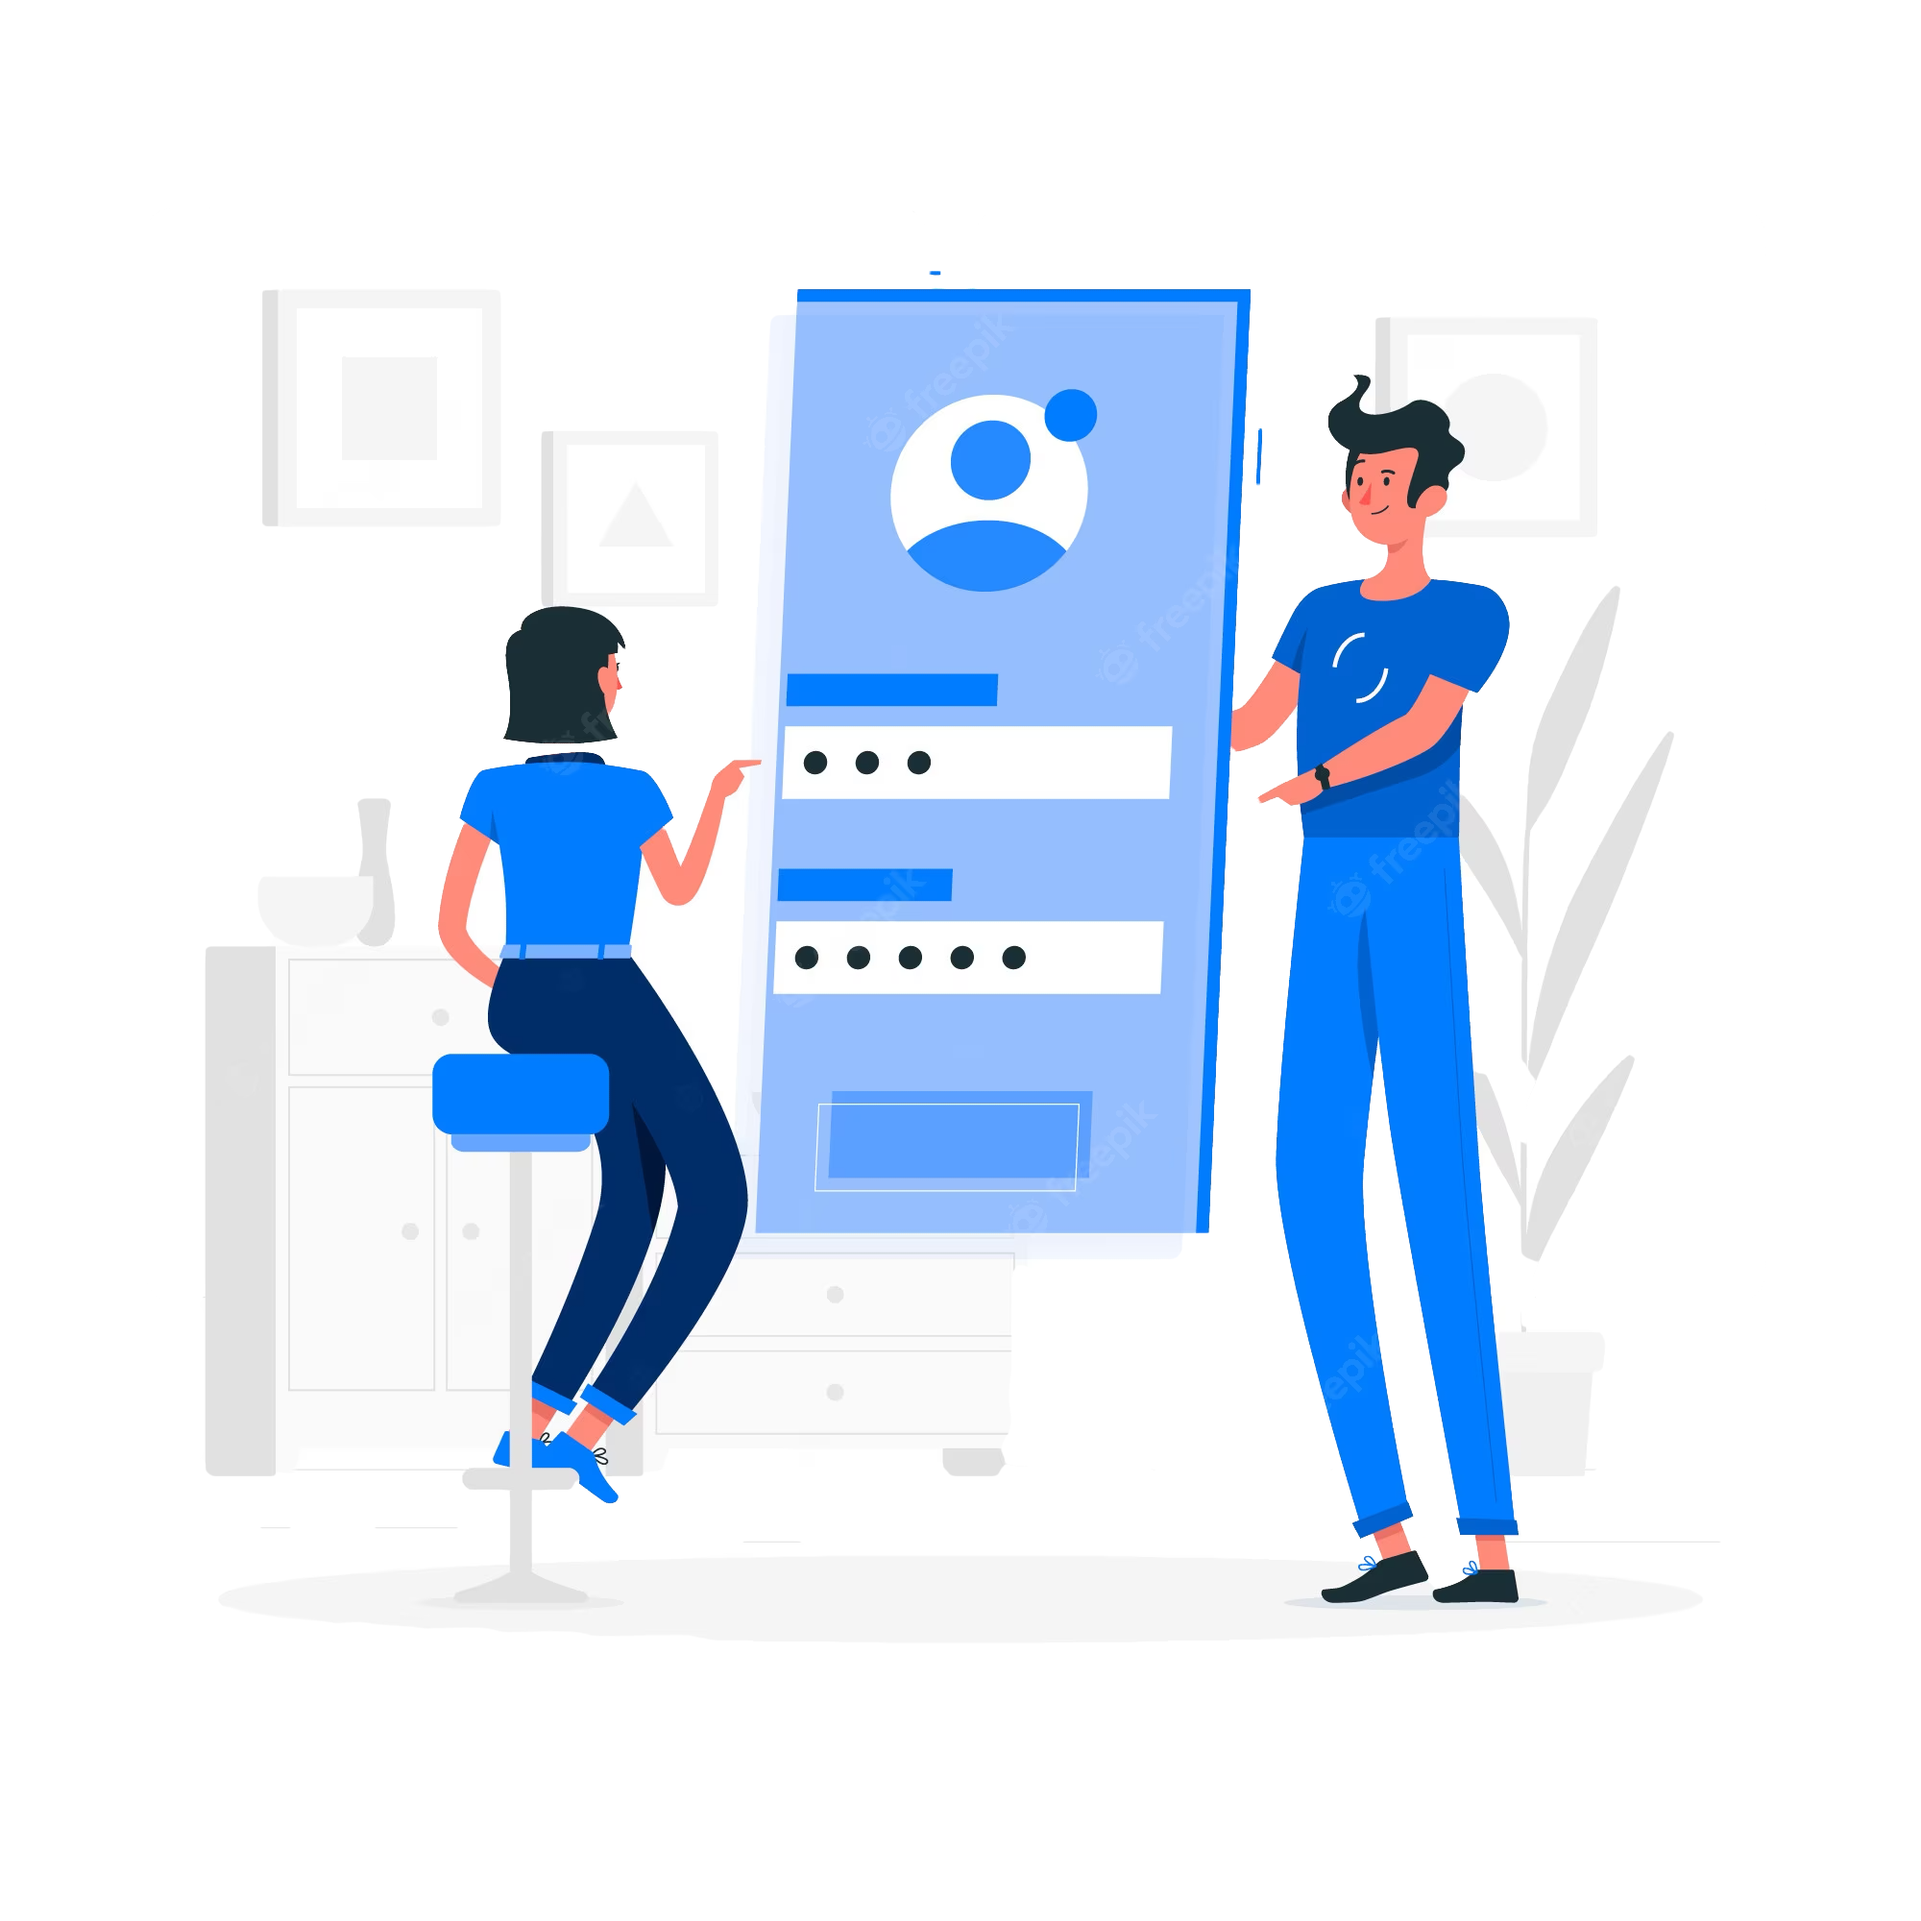
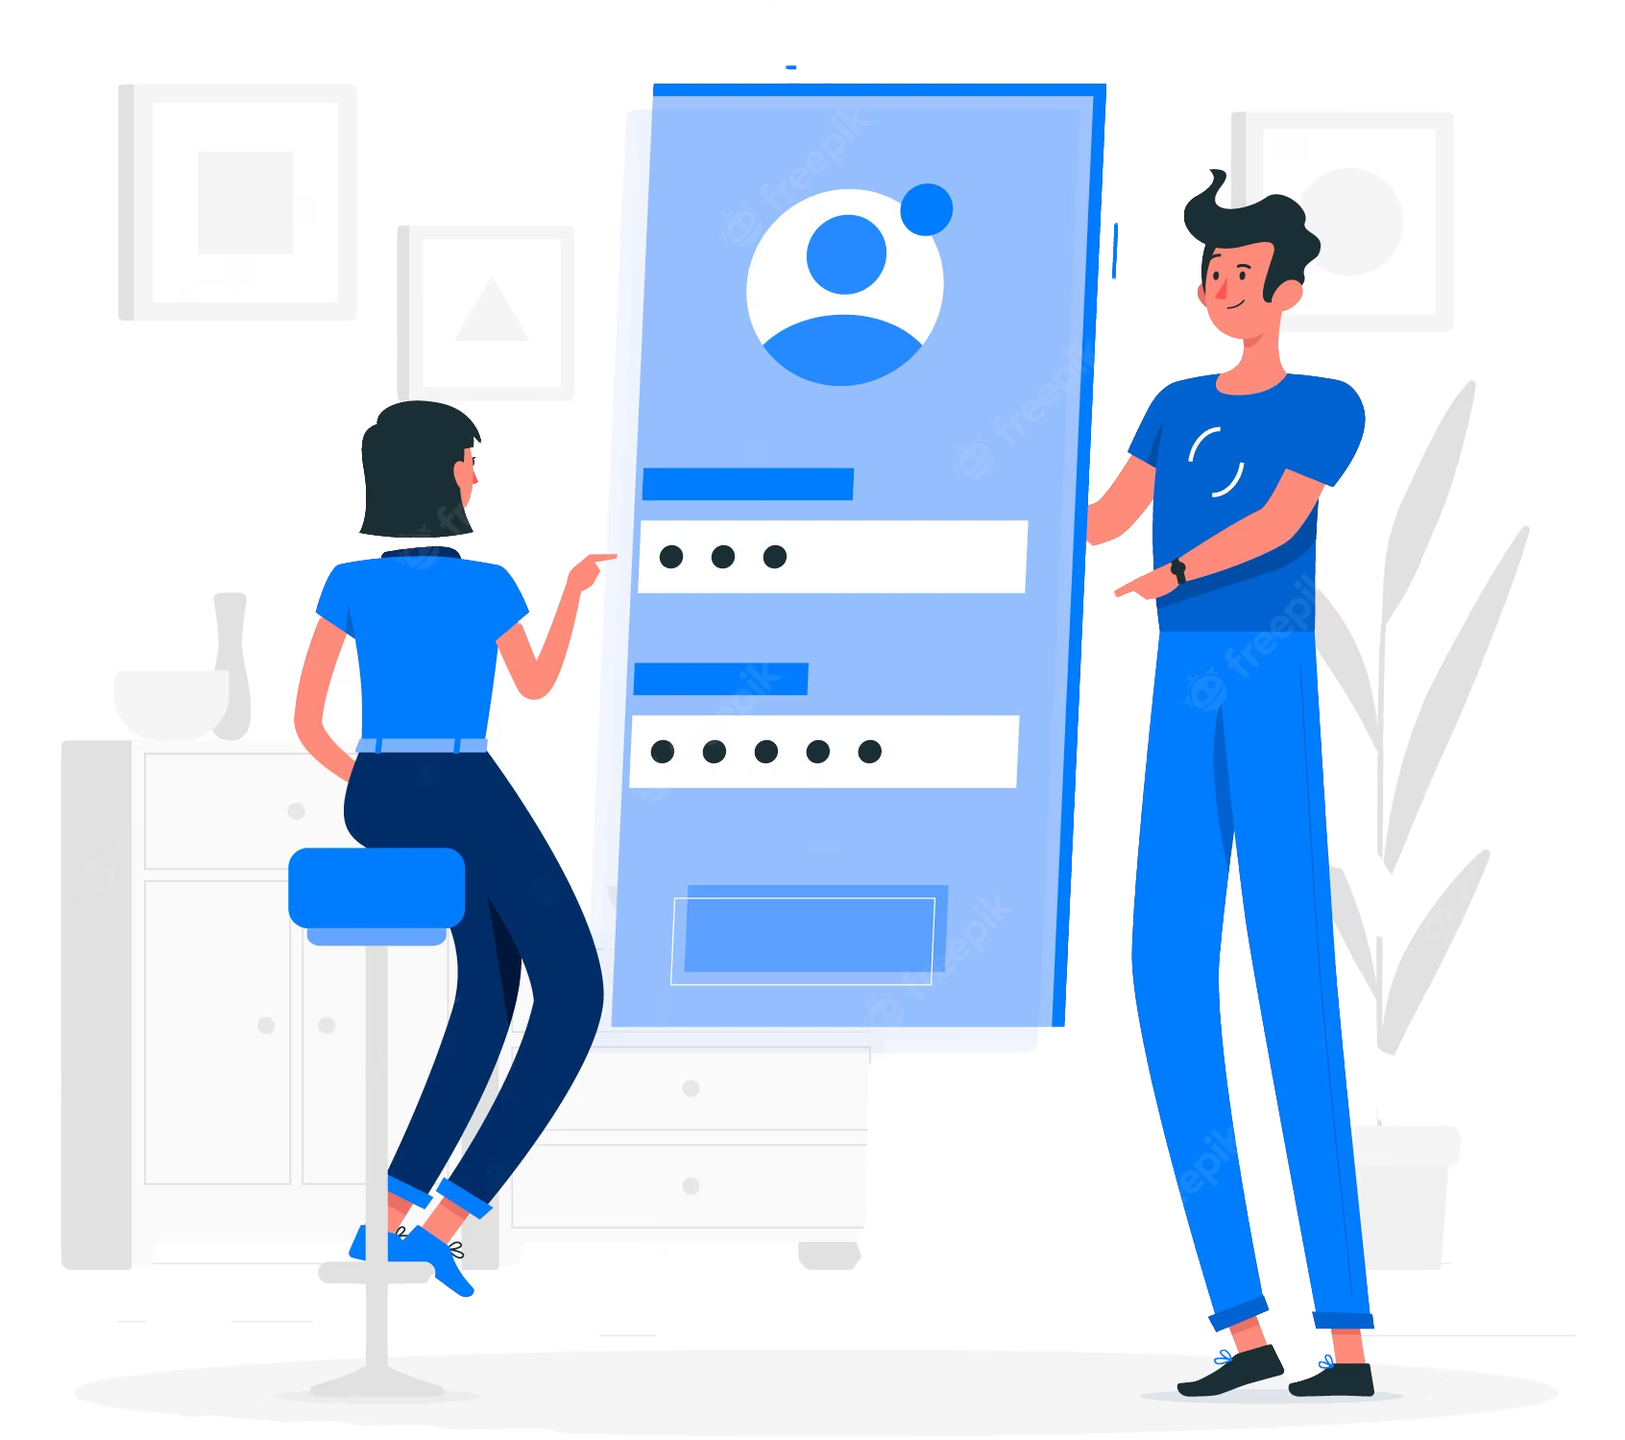
layout fixes

diff --git a/MyPocket.Frontend/src/components/forms/loginForm.tsx b/MyPocket.Frontend/src/components/forms/loginForm.tsx
@@ -5,7 +5,6 @@ import { GetPattern } from '@/utils/patterns';
 import Link from 'next/link';
 import { useForm } from 'react-hook-form';
 import { useUser } from '../contexts/userContext';
-import { useRouter } from 'next/navigation';
 
 function LoginForm({ returnUrl }: { returnUrl?: string }) {
   const { login, loading, result } = useUser();
@@ -39,14 +38,18 @@ function LoginForm({ returnUrl }: { returnUrl?: string }) {
             Login
           </Button>
         </Col>
-        <Col span={12}>
-          <Link href="/signup">Register</Link>
+        <Col span={12} align="center">
+          <Link href="/signup" style={{ fontSize: 14 }}>
+            Register
+          </Link>
         </Col>
-        <Col span={12}>
-          <Link href="/forgot">Forgot Password</Link>
+        <Col span={12} align="right">
+          <Link href="/forgot" style={{ fontSize: 14 }}>
+            Forgot Password
+          </Link>
         </Col>
       </Row>
-      <Feedback type={!result?.success ? 'error' : 'success'} message={result?.message as string} />
+      <Feedback type={!result?.success ? 'error' : 'success'} message={result?.message as string} dismissable />
     </form>
   );
 }

diff --git a/MyPocket.Frontend/src/components/row/row.tsx b/MyPocket.Frontend/src/components/row/row.tsx
@@ -4,8 +4,9 @@ import styles from './row.module.scss';
 interface RowProps {
   children: ReactNode;
   gutter?: number | number[];
-  justifyContent?: 'center' | 'flex-start' | 'flex-end' | 'space-between';
+  justifyContent?: 'center' | 'flex-start' | 'flex-end' | 'space-between' | 'space-around';
   wrap?: boolean;
+  alignItems?: 'center' | 'flex-start' | 'flex-end' | 'baseline';
 }
 interface ColProps {
   children: ReactNode;
@@ -13,12 +14,12 @@ interface ColProps {
   span?: number;
   align?: 'start' | 'end' | 'left' | 'right' | 'center';
 }
-function Row({ children, gutter, wrap = false, justifyContent = 'center' }: RowProps) {
+function Row({ children, gutter, wrap = false, justifyContent = 'center', alignItems = 'flex-start' }: RowProps) {
   const gap = typeof gutter === 'object' ? `${gutter[0]}px ${gutter[1]}px` : `${gutter}px`;
   return (
     <div
       className={styles.row}
-      style={{ gap: gap, justifyContent: justifyContent, flexWrap: !wrap ? 'nowrap' : 'wrap' }}
+      style={{ width: '100%', gap: gap, justifyContent, flexWrap: !wrap ? 'nowrap' : 'wrap', alignItems }}
     >
       {children}
     </div>

diff --git a/MyPocket.Frontend/src/app/contact/page.tsx b/MyPocket.Frontend/src/app/contact/page.tsx
@@ -1,25 +1,22 @@
 import React from 'react';
-import styles from './page.module.scss';
 import contact from '../../images/contact/contact.png';
 import Image from 'next/image';
 import { ContactForm } from '@/components/forms';
-import { FormProvider } from '@/components/form/form';
+import { Col, Row } from '@/components';
 
 export const metadata = {
   title: 'MyPocket - Contact',
 };
 function Contact() {
   return (
-    <div className={styles.text}>
-      <div className={styles.image}>
-        <Image src={contact} alt="contact" height={300} />
-      </div>
-      <div className={styles.form}>
-        <FormProvider>
-          <ContactForm />
-        </FormProvider>
-      </div>
-    </div>
+    <Row gutter={[10, 10]} justifyContent="center" alignItems="center" wrap>
+      <Col flex="1 1 400px" align="center">
+        <Image src={contact} alt="contact" width={300} />
+      </Col>
+      <Col flex="0 1 400px">
+        <ContactForm />
+      </Col>
+    </Row>
   );
 }
 

diff --git a/MyPocket.Frontend/src/app/login/page.tsx b/MyPocket.Frontend/src/app/login/page.tsx
@@ -1,20 +1,20 @@
-import styles from './page.module.scss';
 import loginPic from '@/images/login/login.png';
 import Image from 'next/image';
 import { LoginForm } from '@/components/forms';
+import { Col, Row } from '@/components';
 interface LoginProps {
   searchParams: { returnUrl: string };
 }
 function Login({ searchParams }: LoginProps) {
   return (
-    <div className={styles.description}>
-      <div className={styles.image}>
-        <Image src={loginPic} width={400} alt="login" />
-      </div>
-      <div className={styles.form}>
+    <Row justifyContent="center" alignItems="center" wrap>
+      <Col flex="1 1 400px" align="center">
+        <Image src={loginPic} width={300} alt="login" />
+      </Col>
+      <Col flex="0 1 400px">
         <LoginForm returnUrl={searchParams?.returnUrl} />
-      </div>
-    </div>
+      </Col>
+    </Row>
   );
 }
 

diff --git a/MyPocket.Frontend/src/app/forgot/page.tsx b/MyPocket.Frontend/src/app/forgot/page.tsx
@@ -1,18 +1,17 @@
-import styles from './page.module.scss';
 import loginPic from '@/images/login/login.png';
 import Image from 'next/image';
 import ForgotPasswordForm from '@/components/forms/forgotPasswordForm';
+import { Col, Row } from '@/components';
 function Login() {
   return (
-    <div className={styles.description}>
-      <div className={styles.image}>
-        <Image src={loginPic} width={400} alt="login" />
-      </div>
-      <div className={styles.form}>
-        <h4>Enter the email registered to your account</h4>
+    <Row justifyContent="center" alignItems="center" wrap>
+      <Col flex="1 1 400px" align="center">
+        <Image src={loginPic} width={300} alt="login" />
+      </Col>
+      <Col flex="0 1 400px">
         <ForgotPasswordForm />
-      </div>
-    </div>
+      </Col>
+    </Row>
   );
 }
 

diff --git a/MyPocket.Frontend/src/app/signup/page.tsx b/MyPocket.Frontend/src/app/signup/page.tsx
@@ -4,16 +4,14 @@ import { SignupForm } from '@/components/forms';
 import { Col, Row } from '@/components';
 function Signup() {
   return (
-    <>
-      <Row justifyContent="center" wrap>
-        <Col span={12} align="center">
-          <Image src={signup} alt="signup" style={{ minWidth: 200 }} />
-        </Col>
-        <Col span={12}>
-          <SignupForm />
-        </Col>
-      </Row>
-    </>
+    <Row justifyContent="space-between" alignItems="center" wrap gutter={[10, 10]}>
+      <Col flex="1 1 400px" align="center">
+        <Image src={signup} width={200} alt="signup" />
+      </Col>
+      <Col flex="0 1 400px">
+        <SignupForm />
+      </Col>
+    </Row>
   );
 }
 

diff --git a/MyPocket.Frontend/src/app/home.tsx b/MyPocket.Frontend/src/app/home.tsx
@@ -7,7 +7,7 @@ import calendar from '../images/home/calendar.svg';
 import upload from '../images/home/upload.svg';
 import why from '../images/home/why.png';
 
-function UnauthHome() {
+function UnAuthHome() {
   return (
     <div className={styles.page}>
       <section className={styles.presentation}>
@@ -96,4 +96,4 @@ function UnauthHome() {
     </div>
   );
 }
-export default UnauthHome;
+export default UnAuthHome;

diff --git a/MyPocket.Frontend/src/app/forgot/loading.tsx b/MyPocket.Frontend/src/app/forgot/loading.tsx
@@ -1,9 +1,4 @@
 import { Skeleton } from '@/components';
-import styles from './page.module.scss';
-export default function AboutLoading() {
-  return (
-    <div className={styles.body}>
-      <Skeleton rows={10} />
-    </div>
-  );
+export default function ForgotLoading() {
+  return <Skeleton rows={10} />;
 }

diff --git a/MyPocket.Frontend/src/app/signup/loading.tsx b/MyPocket.Frontend/src/app/signup/loading.tsx
@@ -1,9 +1,4 @@
 import { Skeleton } from '@/components';
-import styles from './page.module.scss';
-export default function AboutLoading() {
-  return (
-    <div className={styles.body}>
-      <Skeleton rows={10} />
-    </div>
-  );
+export default function SignupLoading() {
+  return <Skeleton rows={10} />;
 }

diff --git a/MyPocket.Frontend/src/app/contact/loading.tsx b/MyPocket.Frontend/src/app/contact/loading.tsx
@@ -1,9 +1,4 @@
 import { Skeleton } from '@/components';
-import styles from './page.module.scss';
 export default function AboutLoading() {
-  return (
-    <div className={styles.body}>
-      <Skeleton rows={10} />
-    </div>
-  );
+  return <Skeleton rows={10} />;
 }

diff --git a/MyPocket.Frontend/src/app/login/loading.tsx b/MyPocket.Frontend/src/app/login/loading.tsx
@@ -1,9 +1,4 @@
 import { Skeleton } from '@/components';
-import styles from './page.module.scss';
 export default function AboutLoading() {
-  return (
-    <div className={styles.body}>
-      <Skeleton rows={10} />
-    </div>
-  );
+  return <Skeleton rows={10} />;
 }

diff --git a/MyPocket.Frontend/src/styles/variables.scss b/MyPocket.Frontend/src/styles/variables.scss
@@ -14,7 +14,7 @@ $disabled-color: rgb(229, 225, 225);
 $border-radius: 5px;
 
 //Margin and padding
-$container-padding: 20px;
+$container-padding: 10px;
 $component-general-padding: 8px;
 $component-input-padding: 5px;
 $component-button-padding: 3px;
